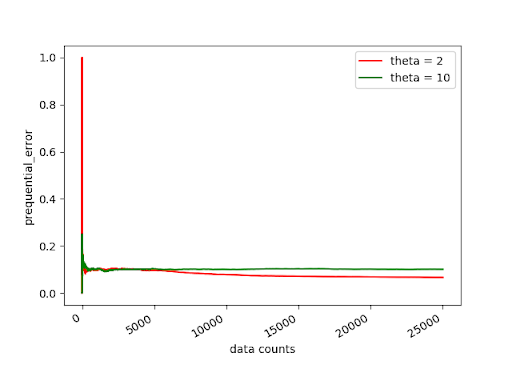
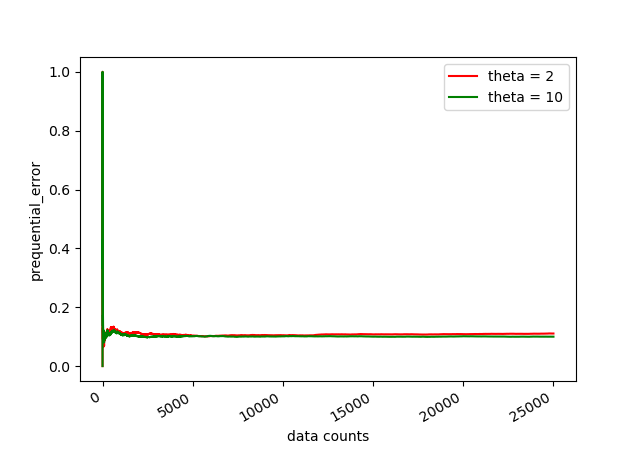
update on pics and code

diff --git a/MCNN.py b/MCNN.py
@@ -54,6 +54,7 @@ def clean_mc_folder():
 
 
 class MC_NN:
+
     def __init__(self, theta, mx):
         self.theta = theta
         self.pool = []  # a list of MC objects
@@ -66,8 +67,11 @@ class MC_NN:
         read all centroid files into a self.pool
         :return:
         '''
+
         mc_files = [f for f in os.listdir(mc_folder) if f.endswith('.csv')]
+
         for file in mc_files:
+
             mc = MC(self.theta)
             if file.__contains__('normal'):
                 mc.cl = 'normal'
@@ -76,6 +80,7 @@ class MC_NN:
 
             with open(join(mc_folder, file), 'r') as f:
                 lines = f.read().splitlines()
+
                 mc.epsilon = int(lines[0])
                 mc.n = int(lines[1])  # count
                 mc.centroid = [float(x) for x in lines[2].split(',') if is_number(x)]
@@ -114,7 +119,9 @@ class MC_NN:
         return min_true_mc
 
     def split_mc(self):
+
         for mc in self.pool:
+
             if mc.epsilon > self.theta:
                 max_index = mc.variance_x.index(max(mc.variance_x))
                 max_variance = mc.variance_x[max_index]
@@ -147,8 +154,10 @@ class MC_NN:
 
     def predict_and_update_mcs(self, instance, true_label):
         # predict
+
         features = [float(attr) for attr in instance if is_number(attr)]
         features_np = np.array(features)
+
         min_distance = float('inf')
         min_mc = None
         for mc in self.pool:
@@ -228,6 +237,21 @@ class MC_NN:
             out_writer = csv.writer(out)
             out_writer.writerow([prediction, instance[-1], int(datetime.utcnow().timestamp())])
 
+        # Prequentia error
+        with open('./mcnn_pred/mcnn_prequential_error.csv', "r", newline='') as f:
+
+            lines = f.read().splitlines()
+            last = lines[-1].split(',') # 0. error 1. n 2. mean
+            error_count = int(last[0])
+            n_count = int(last[1])
+            n_count += 1
+            if prediction != instance[-1]:
+                error_count += 1
+            mean = float(error_count/n_count)
+
+        with open('./mcnn_pred/mcnn_prequential_error.csv', "a", newline='') as out:
+            out_writer = csv.writer(out)
+            out_writer.writerow([error_count, n_count, mean])
 
 def init_mcnn_pool(data_file, sc):
     '''
@@ -246,8 +270,6 @@ def init_mcnn_pool(data_file, sc):
     cf2_x_normal = None
     cf2_x_anomaly = None
 
-    # fix the random seed
-    random.seed(0)
     while normal is None or anomaly is None:
         rand = data.takeSample(withReplacement=False, num=1, seed=random.randint(0, 100))[0]
 
@@ -279,10 +301,12 @@ def init_mcnn_pool(data_file, sc):
         csv_writer.writerow(['activate'])   # initial mc status
         csv_writer.writerow(['anomaly_mc_1.csv'])
 
+    with open('./mcnn_pred/mcnn_prequential_error.csv', "w", newline='') as f:
+        csv_writer = csv.writer(f)
+        csv_writer.writerow(["0", "0", "0.0"])
 
 def predict(instance):
-    mcnn = MC_NN(theta=2, mx=25)
-    # mcnn = MC_NN(theta=10, mx=25)
+    mcnn = MC_NN(theta = 2, mx = 25)
 
     # save predictions to a files for later evaluation
     mcnn.predict_and_update_mcs(instance, instance[-1])

diff --git a/mcnnevl.py b/mcnnevl.py
@@ -35,7 +35,7 @@ def mcnn_eval():
 def mcnn_prequential_error_plot_():
 
     headers = ['error_count', 'n_count', 'prequential_error']
-    df = pd.read_csv('./mcnn_pred/mcnn_predictions.csv', names=headers)
+    df = pd.read_csv('./mcnn_pred/mcnn_prequential_error.csv', names=headers)
 
     x = df['n_count']
     y = df['prequential_error']
@@ -50,11 +50,11 @@ def mcnn_prequential_error_plot_():
     plt.gcf().autofmt_xdate()
     plt.show()
 
-def mcnn_prequential_error_multi_plot_():
+def mcnn_prequential_error_multi_plot():
 
     headers = ['error_count', 'n_count', 'prequential_error']
-    df1 = pd.read_csv('./mcnn_pred/2-3000.csv', names=headers)
-    df2 = pd.read_csv('./mcnn_pred/10-3000.csv', names=headers)
+    df1 = pd.read_csv('./mcnn_pred/mx=2.csv', names=headers)
+    df2 = pd.read_csv('./mcnn_pred/mx=10.csv', names=headers)
 
     x1 = df1['n_count']
     x2 = df2['n_count']
@@ -72,4 +72,4 @@ def mcnn_prequential_error_multi_plot_():
     plt.gcf().autofmt_xdate()
     plt.show()
 
-mcnn_prequential_error_plot_()
+mcnn_prequential_error_multi_plot()

diff --git a/README.md b/README.md
@@ -245,6 +245,7 @@ else
    end
 end
 ```
+(reference: https://www.sciencedirect.com/science/article/pii/S0167739X17304685)
 
 (2). Implementation details: In order to adapt to the pyspark.streaming library, a Micro-Cluster is saved as a file with some important information, the following table is the summary of the information.
 
@@ -304,7 +305,7 @@ table is shown as below:
 
 Unlike the traditional KNN, to evaluate the streaming learning algorithm, we use prequential error. It is the cumulative errors the classifier made over time. The formula is the following S stands for the prequential error.
 
-![](./report_pics/pre-error formula.png)
+![](./report_pics/pre-error-formula.png)
 
 (reference: https://www.researchgate.net/publication/221653555_Issues_in_evaluation_of_stream_learning_algorithms)
 
